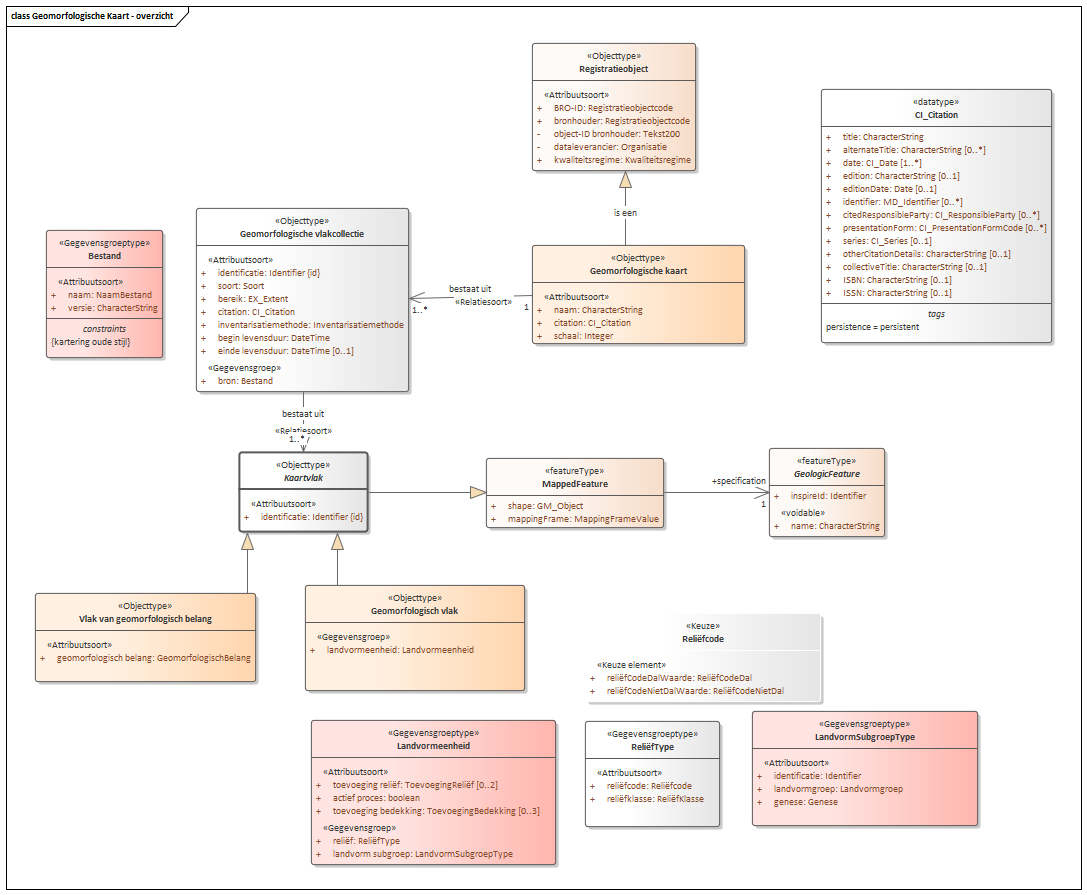
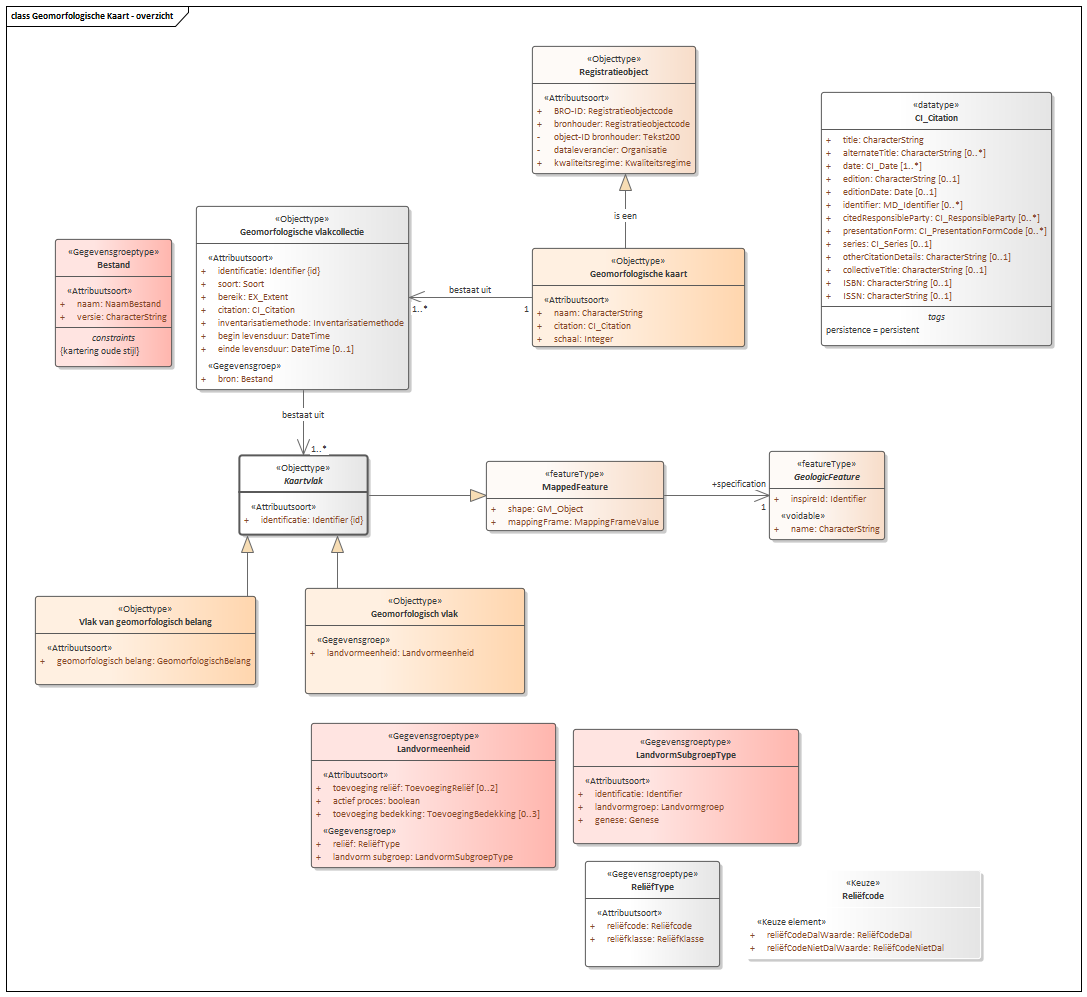
Conceptualmodel-GeomorfologischekaartGMM-conceptueel-1.0-1-20220101-20211210-094038

diff --git a/data/GMM-cat.msword.html b/data/GMM-cat.msword.html
@@ -15,7 +15,7 @@
    <body>
       <p>Conceptual model/Geomorfologische kaart (GMM) - conceptueel/20220101</p>
       <p>Imvertor: 1.65.3</p>
-      <p>Model release: Conceptualmodel-GeomorfologischekaartGMM-conceptueel-1.0-1-20220101-20211210-093908</p>
+      <p>Model release: Conceptualmodel-GeomorfologischekaartGMM-conceptueel-1.0-1-20220101-20211210-094038</p>
       <hr>
       <section>
          <h1>Artikel 1 Definitie van registratieobject, entiteiten en attributen</h1>
@@ -50,7 +50,7 @@
          <section>
             <h2>Het domeinmodel</h2>
             <section id="">
-               <div class="imageinfo overview"><img src="Images/EAID_160626A1_CCDD_4032_B4D5_D30FF8FE4847.png" usemap="#imagemap-EAID_160626A1_CCDD_4032_B4D5_D30FF8FE4847" alt="Diagram &#xA;                        Ontwerp conceptueel model voor de Geomorfologische kaart, ten behoeve van de Basisregistratie Ondergrond (BRO).&#xA;                     "><map name="imagemap-EAID_160626A1_CCDD_4032_B4D5_D30FF8FE4847"><area shape="rect" alt="Kaartvlak" coords="239,452,368,532" href="#graph_EAID_CFBCB46A_F32F_4bfd_9F15_443916D13E11"><area shape="rect" alt="Geomorfologische vlakcollectie" coords="196,208,409,392" href="#graph_EAID_3FA1BFB8_009A_44b8_906A_6D4188D73EAE"><area shape="rect" alt="Registratieobject" coords="532,43,696,171" href="#graph_EAID_9C4A219D_7AF2_4b3a_A169_62458D7D8E93"><area shape="rect" alt="Reliëfcode" coords="585,613,821,702" href="#graph_EAID_BFEEA89D_0D4C_4c95_BC1D_762A18EB6F9B"><area shape="rect" alt="ReliëfType" coords="585,721,720,827" href="#graph_EAID_CF085D60_ACA5_422f_A726_C21B2D6549C3"><area shape="rect" alt="LandvormSubgroepType" coords="752,711,978,826" href="#graph_EAID_F5CF0FBC_08E7_49d2_8E14_D592AE2EAC26"><area shape="rect" alt="Landvormeenheid" coords="311,720,556,865" href="#graph_EAID_F1A1F858_8446_411b_A110_BA4C54C97740"><area shape="rect" alt="Bestand" coords="46,230,163,358" href="#graph_EAID_855C49C9_52D4_4f86_89D7_DFADF4760977"><area shape="rect" alt="Vlak van geomorfologisch belang" coords="35,593,256,682" href="#graph_EAID_843FBABD_EBF0_4f1a_B37D_3D27CF51E1E4"><area shape="rect" alt="Geomorfologisch vlak" coords="305,585,525,691" href="#graph_EAID_79B1980D_BA7A_45db_8EF1_F9DCFF6B5389"><area shape="rect" alt="Geomorfologische kaart" coords="532,245,745,344" href="#graph_EAID_6153A93B_5EF8_4e22_8EEC_7CF612ACE3D6"></map><p><b>Geomorfologische Kaart</b>
+               <div class="imageinfo overview"><img src="Images/EAID_160626A1_CCDD_4032_B4D5_D30FF8FE4847.png" usemap="#imagemap-EAID_160626A1_CCDD_4032_B4D5_D30FF8FE4847" alt="Diagram &#xA;                        Ontwerp conceptueel model voor de Geomorfologische kaart, ten behoeve van de Basisregistratie Ondergrond (BRO).&#xA;                     "><map name="imagemap-EAID_160626A1_CCDD_4032_B4D5_D30FF8FE4847"><area shape="rect" alt="Kaartvlak" coords="239,455,368,535" href="#graph_EAID_CFBCB46A_F32F_4bfd_9F15_443916D13E11"><area shape="rect" alt="Geomorfologische vlakcollectie" coords="196,206,409,390" href="#graph_EAID_3FA1BFB8_009A_44b8_906A_6D4188D73EAE"><area shape="rect" alt="Registratieobject" coords="532,46,696,174" href="#graph_EAID_9C4A219D_7AF2_4b3a_A169_62458D7D8E93"><area shape="rect" alt="Reliëfcode" coords="745,870,981,959" href="#graph_EAID_BFEEA89D_0D4C_4c95_BC1D_762A18EB6F9B"><area shape="rect" alt="ReliëfType" coords="585,861,720,967" href="#graph_EAID_CF085D60_ACA5_422f_A726_C21B2D6549C3"><area shape="rect" alt="LandvormSubgroepType" coords="573,729,799,844" href="#graph_EAID_F5CF0FBC_08E7_49d2_8E14_D592AE2EAC26"><area shape="rect" alt="Landvormeenheid" coords="311,723,556,868" href="#graph_EAID_F1A1F858_8446_411b_A110_BA4C54C97740"><area shape="rect" alt="Bestand" coords="55,239,172,367" href="#graph_EAID_855C49C9_52D4_4f86_89D7_DFADF4760977"><area shape="rect" alt="Vlak van geomorfologisch belang" coords="35,596,256,685" href="#graph_EAID_843FBABD_EBF0_4f1a_B37D_3D27CF51E1E4"><area shape="rect" alt="Geomorfologisch vlak" coords="305,588,525,694" href="#graph_EAID_79B1980D_BA7A_45db_8EF1_F9DCFF6B5389"><area shape="rect" alt="Geomorfologische kaart" coords="532,248,745,347" href="#graph_EAID_6153A93B_5EF8_4e22_8EEC_7CF612ACE3D6"></map><p><b>Geomorfologische Kaart</b>
                      
                      <p>Ontwerp conceptueel model voor de Geomorfologische kaart, ten behoeve van de Basisregistratie
                         Ondergrond (BRO).</p>
@@ -558,7 +558,7 @@
                            </tr>
                         </tbody>
                      </table>
-                     </section><a class="anchor" id="detail_d22595e2998"></a><section id="detail_d22595e2998">
+                     </section><a class="anchor" id="detail_d22600e3026"></a><section id="detail_d22600e3026">
                      <h4>  bron</h4>
                      <table style="width: 100%;">
                         <colgroup style="width: 30%;"></colgroup>
@@ -781,7 +781,7 @@
                               (maaiveld), zodat het als kaart is te gebruiken</td>
                         </tr>
                      </tbody>
-                  </table><a class="anchor" id="detail_d22595e3793"></a><section id="detail_d22595e3793">
+                  </table><a class="anchor" id="detail_d22600e3821"></a><section id="detail_d22600e3821">
                      <h4>  landvormeenheid</h4>
                      <table style="width: 100%;">
                         <colgroup style="width: 30%;"></colgroup>
@@ -1069,7 +1069,7 @@
                            </tr>
                         </tbody>
                      </table>
-                     </section><a class="anchor" id="detail_d22595e4948"></a><section id="detail_d22595e4948">
+                     </section><a class="anchor" id="detail_d22600e4976"></a><section id="detail_d22600e4976">
                      <h4>  reliëf</h4>
                      <table style="width: 100%;">
                         <colgroup style="width: 30%;"></colgroup>
@@ -1102,7 +1102,7 @@
                            </tr>
                         </tbody>
                      </table>
-                  </section><a class="anchor" id="detail_d22595e5115"></a><section id="detail_d22595e5115">
+                  </section><a class="anchor" id="detail_d22600e5143"></a><section id="detail_d22600e5143">
                      <h4>  landvorm subgroep</h4>
                      <table style="width: 100%;">
                         <colgroup style="width: 30%;"></colgroup>

diff --git a/data/GMM-cat.respec.html b/data/GMM-cat.respec.html
@@ -28,7 +28,7 @@
       </section>
    <section id="">
       <h2>Het domeinmodel   </h2>
-      <div class="imageinfo overview"><img src="data/Images/EAID_160626A1_CCDD_4032_B4D5_D30FF8FE4847.png" usemap="#imagemap-EAID_160626A1_CCDD_4032_B4D5_D30FF8FE4847" alt="Diagram &#xA;                        Ontwerp conceptueel model voor de Geomorfologische kaart, ten behoeve van de Basisregistratie Ondergrond (BRO).&#xA;                     "><map name="imagemap-EAID_160626A1_CCDD_4032_B4D5_D30FF8FE4847"><area shape="rect" alt="Kaartvlak" coords="239,452,368,532" href="#graph_EAID_CFBCB46A_F32F_4bfd_9F15_443916D13E11"><area shape="rect" alt="Geomorfologische vlakcollectie" coords="196,208,409,392" href="#graph_EAID_3FA1BFB8_009A_44b8_906A_6D4188D73EAE"><area shape="rect" alt="Registratieobject" coords="532,43,696,171" href="#graph_EAID_9C4A219D_7AF2_4b3a_A169_62458D7D8E93"><area shape="rect" alt="Reliëfcode" coords="585,613,821,702" href="#graph_EAID_BFEEA89D_0D4C_4c95_BC1D_762A18EB6F9B"><area shape="rect" alt="ReliëfType" coords="585,721,720,827" href="#graph_EAID_CF085D60_ACA5_422f_A726_C21B2D6549C3"><area shape="rect" alt="LandvormSubgroepType" coords="752,711,978,826" href="#graph_EAID_F5CF0FBC_08E7_49d2_8E14_D592AE2EAC26"><area shape="rect" alt="Landvormeenheid" coords="311,720,556,865" href="#graph_EAID_F1A1F858_8446_411b_A110_BA4C54C97740"><area shape="rect" alt="Bestand" coords="46,230,163,358" href="#graph_EAID_855C49C9_52D4_4f86_89D7_DFADF4760977"><area shape="rect" alt="Vlak van geomorfologisch belang" coords="35,593,256,682" href="#graph_EAID_843FBABD_EBF0_4f1a_B37D_3D27CF51E1E4"><area shape="rect" alt="Geomorfologisch vlak" coords="305,585,525,691" href="#graph_EAID_79B1980D_BA7A_45db_8EF1_F9DCFF6B5389"><area shape="rect" alt="Geomorfologische kaart" coords="532,245,745,344" href="#graph_EAID_6153A93B_5EF8_4e22_8EEC_7CF612ACE3D6"></map><p><b>Geomorfologische Kaart</b>
+      <div class="imageinfo overview"><img src="data/Images/EAID_160626A1_CCDD_4032_B4D5_D30FF8FE4847.png" usemap="#imagemap-EAID_160626A1_CCDD_4032_B4D5_D30FF8FE4847" alt="Diagram &#xA;                        Ontwerp conceptueel model voor de Geomorfologische kaart, ten behoeve van de Basisregistratie Ondergrond (BRO).&#xA;                     "><map name="imagemap-EAID_160626A1_CCDD_4032_B4D5_D30FF8FE4847"><area shape="rect" alt="Kaartvlak" coords="239,455,368,535" href="#graph_EAID_CFBCB46A_F32F_4bfd_9F15_443916D13E11"><area shape="rect" alt="Geomorfologische vlakcollectie" coords="196,206,409,390" href="#graph_EAID_3FA1BFB8_009A_44b8_906A_6D4188D73EAE"><area shape="rect" alt="Registratieobject" coords="532,46,696,174" href="#graph_EAID_9C4A219D_7AF2_4b3a_A169_62458D7D8E93"><area shape="rect" alt="Reliëfcode" coords="745,870,981,959" href="#graph_EAID_BFEEA89D_0D4C_4c95_BC1D_762A18EB6F9B"><area shape="rect" alt="ReliëfType" coords="585,861,720,967" href="#graph_EAID_CF085D60_ACA5_422f_A726_C21B2D6549C3"><area shape="rect" alt="LandvormSubgroepType" coords="573,729,799,844" href="#graph_EAID_F5CF0FBC_08E7_49d2_8E14_D592AE2EAC26"><area shape="rect" alt="Landvormeenheid" coords="311,723,556,868" href="#graph_EAID_F1A1F858_8446_411b_A110_BA4C54C97740"><area shape="rect" alt="Bestand" coords="55,239,172,367" href="#graph_EAID_855C49C9_52D4_4f86_89D7_DFADF4760977"><area shape="rect" alt="Vlak van geomorfologisch belang" coords="35,596,256,685" href="#graph_EAID_843FBABD_EBF0_4f1a_B37D_3D27CF51E1E4"><area shape="rect" alt="Geomorfologisch vlak" coords="305,588,525,694" href="#graph_EAID_79B1980D_BA7A_45db_8EF1_F9DCFF6B5389"><area shape="rect" alt="Geomorfologische kaart" coords="532,248,745,347" href="#graph_EAID_6153A93B_5EF8_4e22_8EEC_7CF612ACE3D6"></map><p><b>Geomorfologische Kaart</b>
             
             <p>Ontwerp conceptueel model voor de Geomorfologische kaart, ten behoeve van de Basisregistratie
                Ondergrond (BRO).</p>
@@ -534,7 +534,7 @@
                   </tr>
                </tbody>
             </table>
-            </section><a class="anchor" id="detail_d22595e2998"></a><section id="detail_d22595e2998">
+            </section><a class="anchor" id="detail_d22600e3026"></a><section id="detail_d22600e3026">
             <h4>  bron</h4>
             <table style="width: 100%;">
                <colgroup style="width: 30%;"></colgroup>
@@ -757,7 +757,7 @@
                      (maaiveld), zodat het als kaart is te gebruiken</td>
                </tr>
             </tbody>
-         </table><a class="anchor" id="detail_d22595e3793"></a><section id="detail_d22595e3793">
+         </table><a class="anchor" id="detail_d22600e3821"></a><section id="detail_d22600e3821">
             <h4>  landvormeenheid</h4>
             <table style="width: 100%;">
                <colgroup style="width: 30%;"></colgroup>
@@ -1045,7 +1045,7 @@
                   </tr>
                </tbody>
             </table>
-            </section><a class="anchor" id="detail_d22595e4948"></a><section id="detail_d22595e4948">
+            </section><a class="anchor" id="detail_d22600e4976"></a><section id="detail_d22600e4976">
             <h4>  reliëf</h4>
             <table style="width: 100%;">
                <colgroup style="width: 30%;"></colgroup>
@@ -1078,7 +1078,7 @@
                   </tr>
                </tbody>
             </table>
-         </section><a class="anchor" id="detail_d22595e5115"></a><section id="detail_d22595e5115">
+         </section><a class="anchor" id="detail_d22600e5143"></a><section id="detail_d22600e5143">
             <h4>  landvorm subgroep</h4>
             <table style="width: 100%;">
                <colgroup style="width: 30%;"></colgroup>
